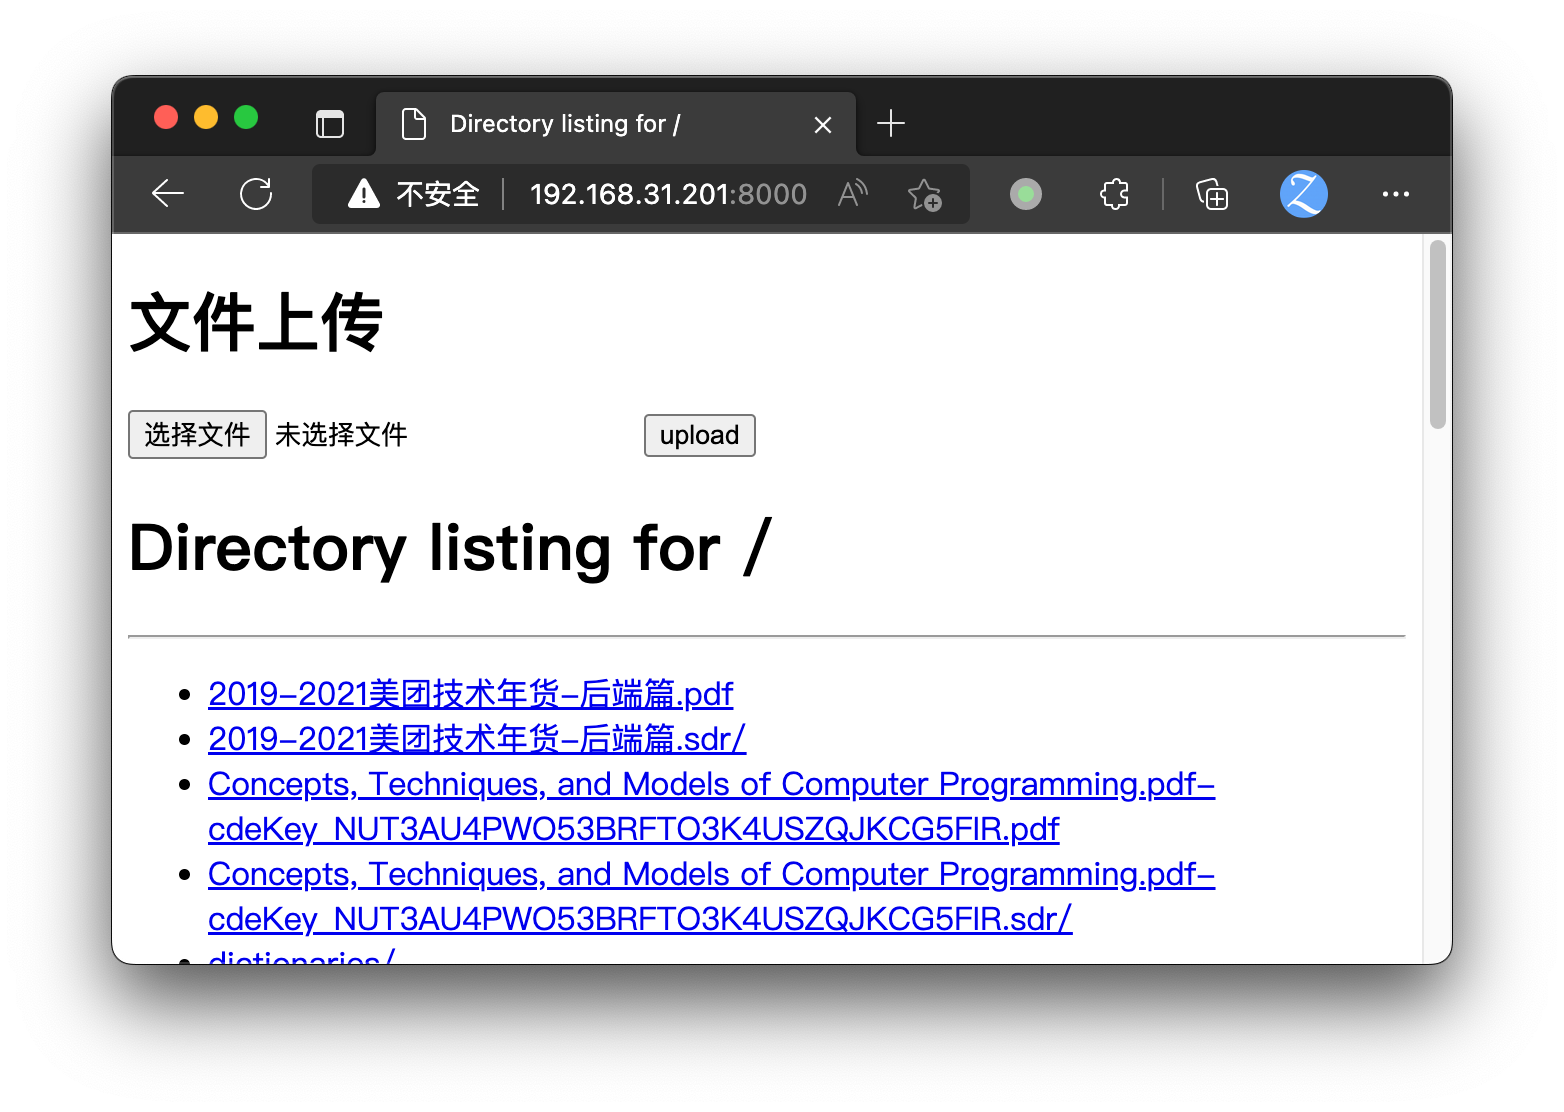
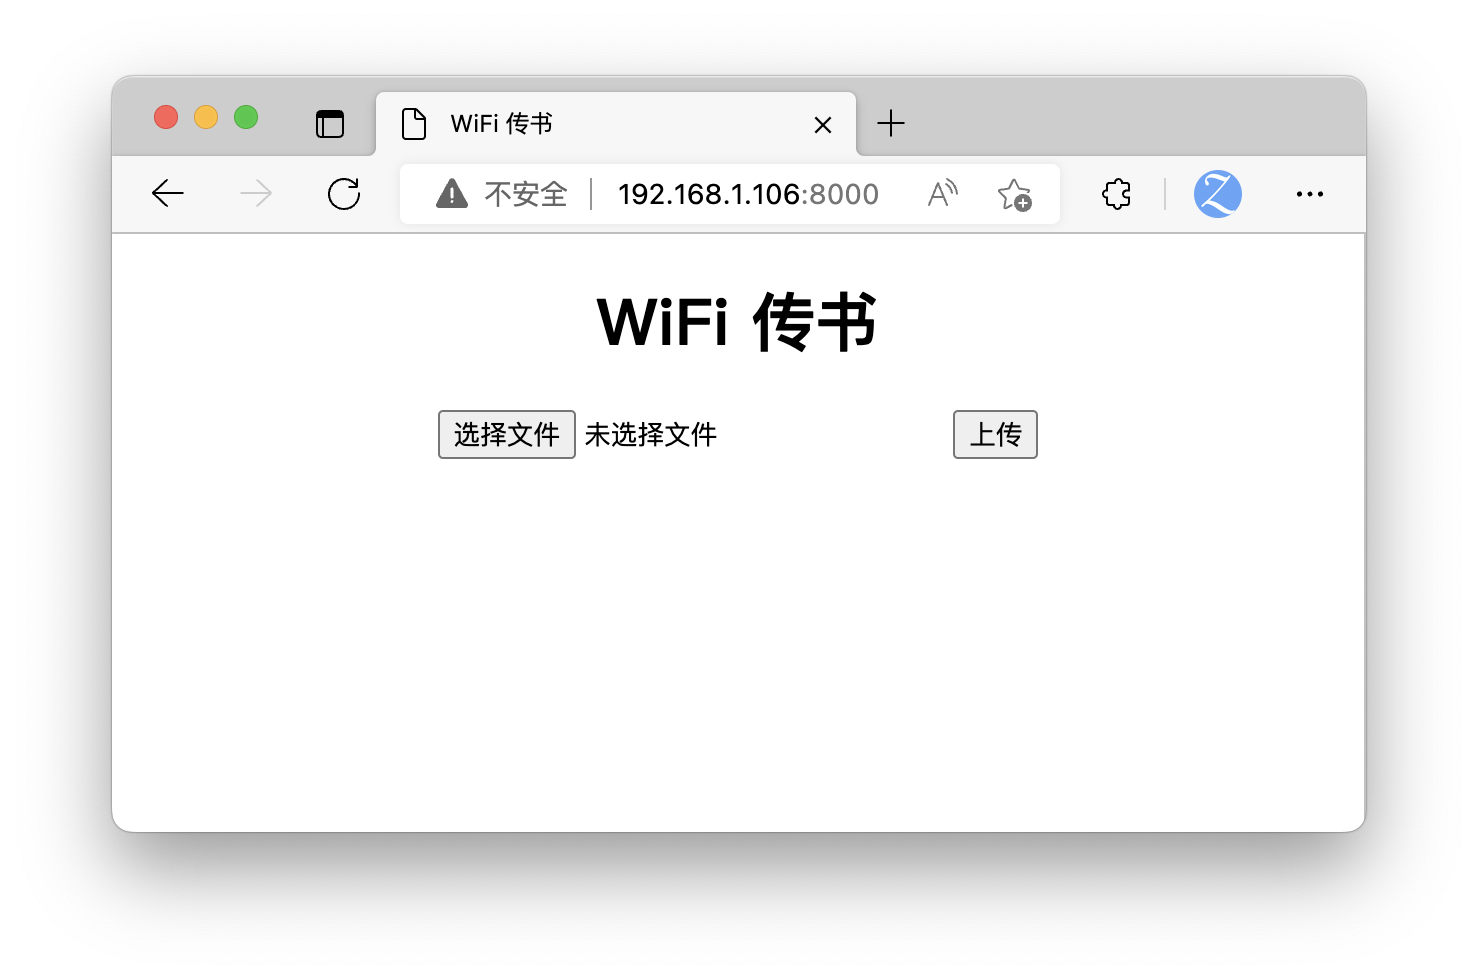
upgrade upload page ui

Changed region(s): [[0.0311, 0.0612, 0.9648, 0.949], [0.6536, 0.4286, 0.7158, 0.4592]]

diff --git a/wifi-transfer/main.py b/wifi-transfer/main.py
@@ -138,49 +138,29 @@ class SimpleHTTPRequestHandler(http.server.BaseHTTPRequestHandler):
             raise
  
     def list_directory(self, path):
-        try:
-            list_dir = os.listdir(path)
-        except OSError:
-            self.send_error(HTTPStatus.NOT_FOUND, "No permission to list_dir directory")
-            return None
-        list_dir.sort(key=lambda a: a.lower())
-        r = []
-        try:
-            display_path = urllib.parse.unquote(self.path, errors='surrogatepass')
-        except UnicodeDecodeError:
-            display_path = urllib.parse.unquote(path)
-        display_path = html.escape(display_path, quote=False)
         enc = sys.getfilesystemencoding()
+
+        content = """
+<!DOCTYPE HTML PUBLIC "-//W3C//DTD HTML 4.01//EN"
+"http://www.w3.org/TR/html4/strict.dtd">
+<html>
+  <head>
+    <meta http-equiv="Content-Type"
+          content="text/html; charset=utf8">
+    <meta name="viewport" content="width=device-width, initial-scale=1, maximum-scale=1">
+    <title>WiFi 传书</title>
+  </head>
+  <body style="text-align:center">
+    <h1>WiFi 传书</h1>
+    <form ENCTYPE="multipart/form-data" method="post">
+      <input name="file" type="file"/>
+      <input type="submit" value="上传"/>
+    </form>
+  </body>
+</html>
+        """
  
-        form = """
-            <h1>文件上传</h1>\n
-            <form ENCTYPE="multipart/form-data" method="post">\n
-                <input name="file" type="file"/>\n
-                <input type="submit" value="upload"/>\n
-            </form>\n"""
-        title = 'Directory listing for %s' % display_path
-        r.append('<!DOCTYPE HTML PUBLIC "-//W3C//DTD HTML 4.01//EN" '
-                 '"http://www.w3.org/TR/html4/strict.dtd">')
-        r.append('<html>\n<head>')
-        r.append('<meta http-equiv="Content-Type" '
-                 'content="text/html; charset=%s">' % enc)
-        r.append('<title>%s</title>\n</head>' % title)
-        r.append('<body>%s\n<h1>%s</h1>' % (form, title))
-        r.append('<hr>\n<ul>')
-        for name in list_dir:
-            fullname = os.path.join(path, name)
-            displayname = linkname = name
-            # Append / for directories or @ for symbolic links
-            if os.path.isdir(fullname):
-                displayname = name + "/"
-                linkname = name + "/"
-            if os.path.islink(fullname):
-                displayname = name + "@"
-                # Note: a link to a directory displays with @ and links with /
-            r.append('<li><a href="%s">%s</a></li>' % (urllib.parse.quote(linkname, errors='surrogatepass'),
-                                                       html.escape(displayname, quote=False)))
-        r.append('</ul>\n<hr>\n</body>\n</html>\n')
-        encoded = '\n'.join(r).encode(enc, 'surrogate escape')
+        encoded = content.encode(enc, 'surrogate escape')
         f = io.BytesIO()
         f.write(encoded)
         f.seek(0)
@@ -237,14 +217,15 @@ class SimpleHTTPRequestHandler(http.server.BaseHTTPRequestHandler):
             '"http://www.w3.org/TR/html4/strict.dtd">',
             '<html>\n<head>',
             '<meta http-equiv="Content-Type" content="text/html; charset=%s">' % enc,
-            '<title>%s</title>\n</head>' % "Upload Result Page",
-            '<body><h1>%s</h1>\n' % "Upload Result"
+            '<meta name="viewport" content="width=device-width, initial-scale=1, maximum-scale=1">',
+            '<title>%s</title>\n</head>' % "上传结果",
+            '<body style="text-align:center"><h1>%s</h1>\n' % "上传结果"
         ]
         if r:
-            res.append('<p>SUCCESS: %s</p>\n' % info)
+            res.append('<p>成功: %s</p>\n' % info)
         else:
-            res.append('<p>FAILURE: %s</p>' % info)
-        res.append('<a href=\"%s\">back</a>' % self.headers['referer'])
+            res.append('<p>失败: %s</p>' % info)
+        res.append('<a href=\"%s\">返回</a>' % self.headers['referer'])
         res.append('</body></html>')
         encoded = '\n'.join(res).encode(enc, 'surrogate escape')
         f = io.BytesIO()
@@ -275,7 +256,7 @@ class SimpleHTTPRequestHandler(http.server.BaseHTTPRequestHandler):
         if not fn:
             return False, "Can't find out file name..."
         # path = self.translate_path(self.path)
-        path = "/mnt/us/documents/"
+        path = default_directory
         fn = os.path.join(path, fn[0])
         line = self.rfile.readline()
         remain_bytes -= len(line)

diff --git a/README.md b/README.md
@@ -10,9 +10,13 @@ Kindle 端插件运行效果：
 
 <img width="320px" src="./screenshots/kindle-extension.png"/>
 
-电脑/手机端上传页面效果：
+电脑端上传页面效果：
 
 <img width="640px" src="./screenshots/page-to-upload.png"/>
+
+手机端上传页面效果：
+
+<img width="320px" src="./screenshots/page-to-upload-mobile.png"/>
 
 ## 安装方法
 
